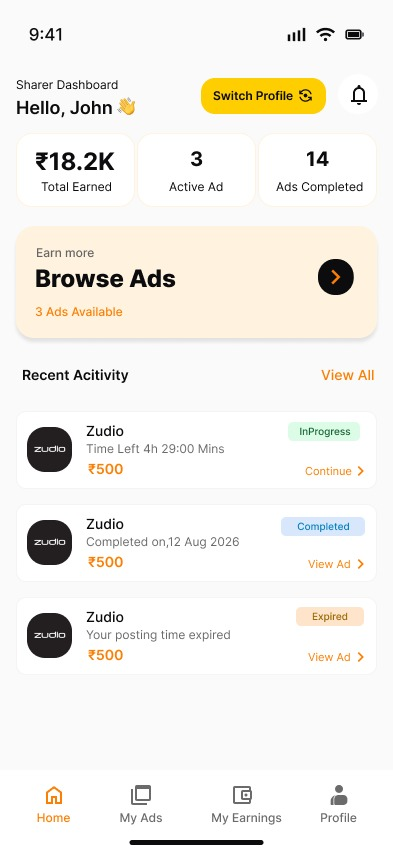
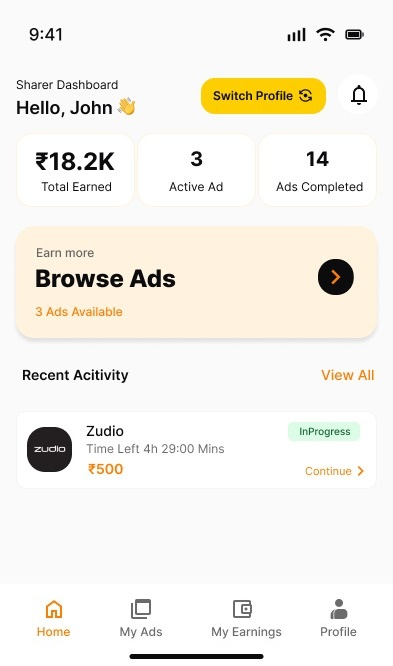
Imagecrop

diff --git a/src/app/privacy/page.tsx b/src/app/privacy/page.tsx
@@ -9,13 +9,17 @@ export default function PrivacyPage() {
       <Navbar />
       <section className="pt-32 md:pt-40 pb-16 md:pb-20 max-w-4xl mx-auto px-6">
         <Reveal>
-          <h1 className="text-3xl sm:text-4xl font-bold text-zinc-900 mb-4">Privacy Policy</h1>
-          <p className="text-sm text-zinc-500 mb-10">Effective Date: [DD/MM/YYYY] | Last Updated: [DD/MM/YYYY]</p>
+          <h1 className="text-3xl sm:text-4xl font-bold text-zinc-900 mb-10">Privacy Policy</h1>
         </Reveal>
-        
-        <div className="max-w-none text-zinc-600 space-y-6">
 
-          <p className="text-base leading-relaxed">[Placeholder for Privacy Policy content. To be updated by legal counsel.]</p>
+        <div className="max-w-none text-zinc-600 space-y-6">
+          <ol className="list-decimal pl-6 space-y-4 text-base leading-relaxed">
+            <li>This policy explains how we collect, use, and protect your information when you use our app.</li>
+            <li>We collect information you provide (like name and email) and information collected automatically (like device and usage data).</li>
+            <li>We use your information to run the app, improve your experience, provide support, and keep it secure.</li>
+            <li>We do not sell your data and only share it with trusted service providers or when required by law.</li>
+            <li>You can access, update, or delete your information and contact us anytime for any questions.</li>
+          </ol>
         </div>
       </section>
       <Footer />

diff --git a/src/app/refund/page.tsx b/src/app/refund/page.tsx
@@ -9,13 +9,17 @@ export default function RefundPage() {
       <Navbar />
       <section className="pt-32 md:pt-40 pb-16 md:pb-20 max-w-4xl mx-auto px-6">
         <Reveal>
-          <h1 className="text-3xl sm:text-4xl font-bold text-zinc-900 mb-4">Refund &amp; Cancellation Policy</h1>
-          <p className="text-sm text-zinc-500 mb-10">Effective Date: [DD/MM/YYYY] | Last Updated: [DD/MM/YYYY]</p>
+          <h1 className="text-3xl sm:text-4xl font-bold text-zinc-900 mb-10">Refund &amp; Cancellation Policy</h1>
         </Reveal>
-        
-        <div className="max-w-none text-zinc-600 space-y-6">
 
-          <p className="text-base leading-relaxed">[Placeholder for Refund & Cancellation Policy content. To be updated by legal counsel.]</p>
+        <div className="max-w-none text-zinc-600 space-y-6">
+          <ol className="list-decimal pl-6 space-y-4 text-base leading-relaxed">
+            <li>This policy explains how cancellations and refunds work for our app.</li>
+            <li>You can cancel your account or subscription anytime from the app settings or by contacting support.</li>
+            <li>Refunds for any paid items can be requested within the stated time window.</li>
+            <li>Purchases made through the App Store or Google Play follow their respective refund processes.</li>
+            <li>Used or already-activated items are generally non-refundable.</li>
+          </ol>
         </div>
       </section>
       <Footer />

diff --git a/src/app/page.tsx b/src/app/page.tsx
@@ -1071,7 +1071,7 @@ export default function Home() {
             >
               <div className="relative">
                 <div className="absolute -inset-6 bg-orange-500/20 blur-3xl rounded-full" />
-                <div className="relative w-full max-w-[340px] sm:w-[400px] sm:max-w-full">
+                <div className="relative w-full max-w-[320px] sm:max-w-[360px] mx-auto">
                   <motion.img
                     src="/images/sharer.jpeg"
                     alt="adHive Sharer Dashboard"
